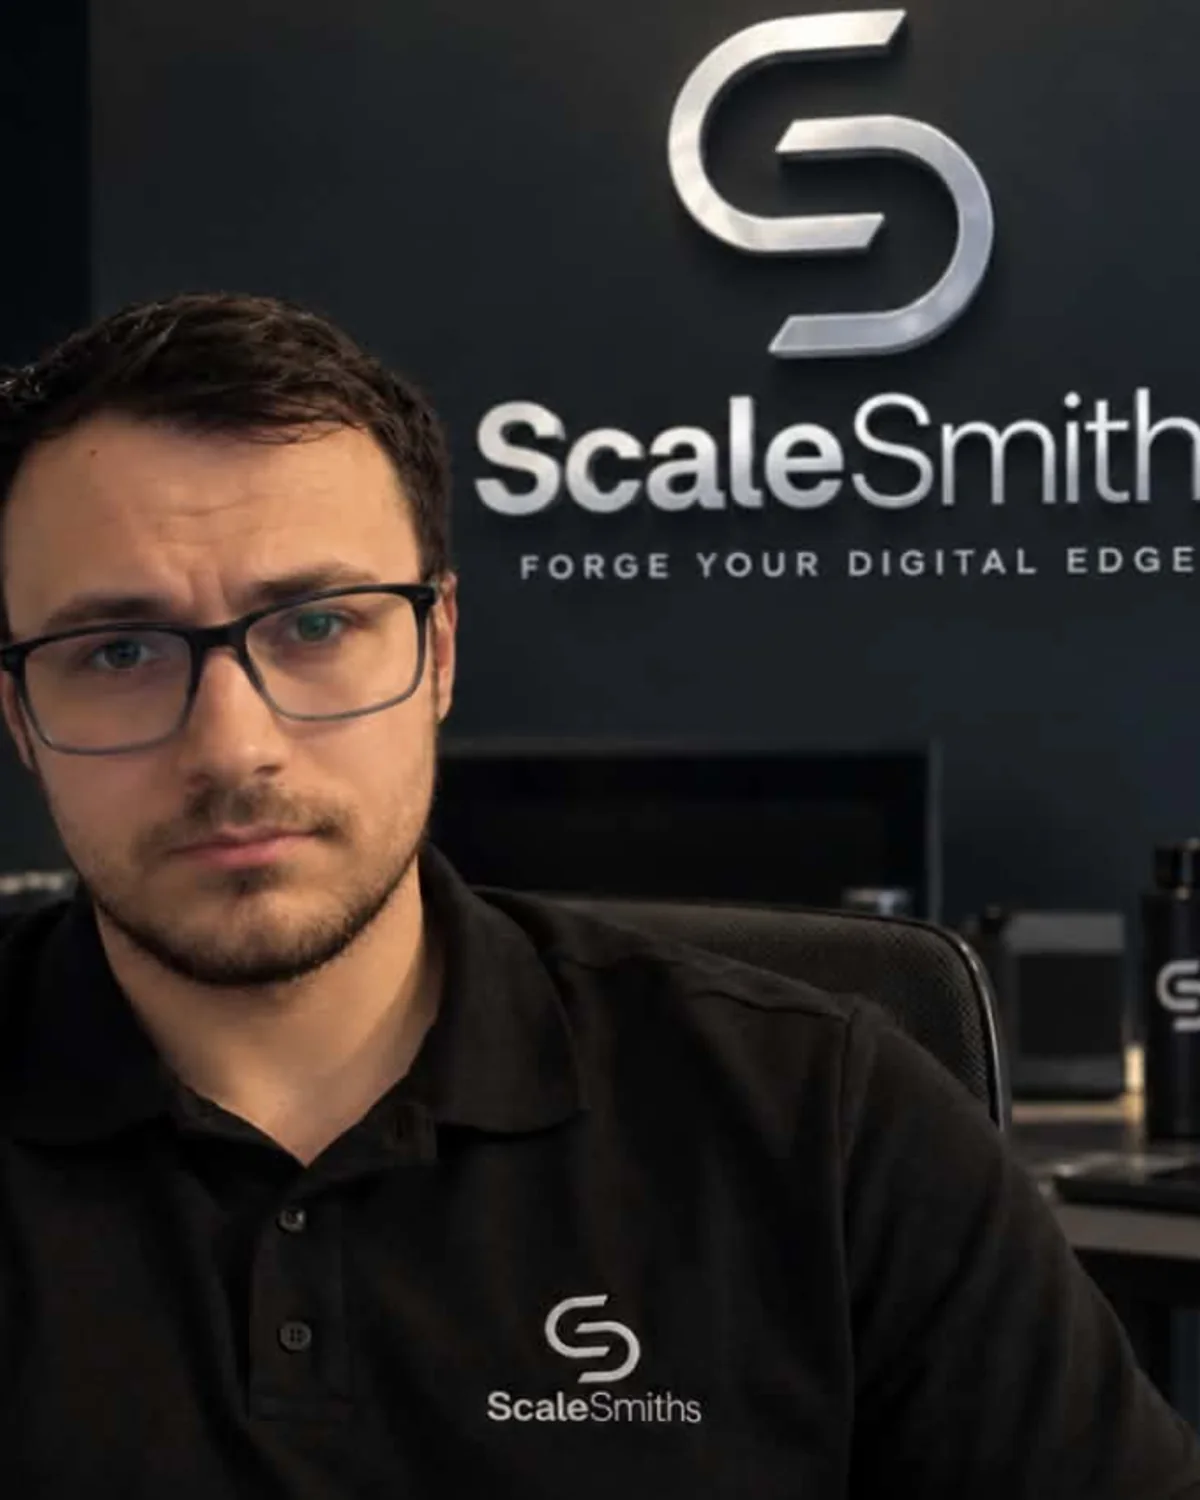
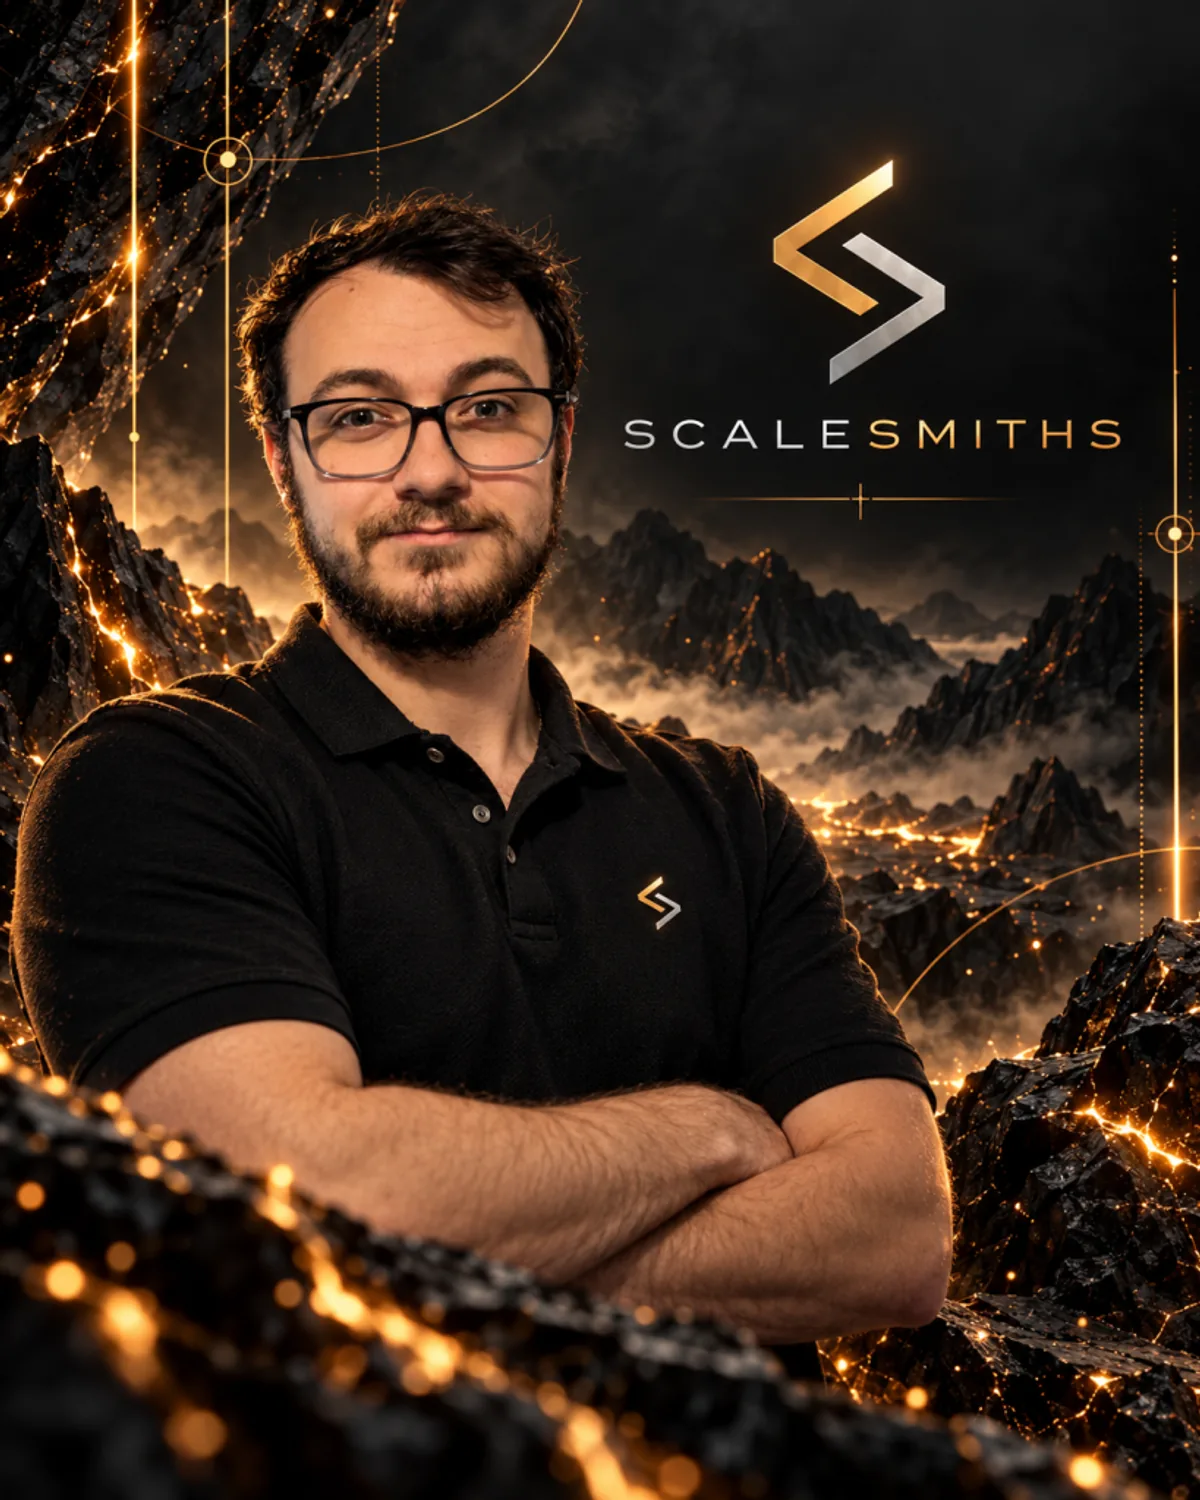
feat(web): replace Rhys portraits with branded forge and office shots
Swap the primary Rhys team photo for the forge-mountain mural portrait and
add the studio/office shot for about and homepage founder cards.

diff --git a/web/tests/e2e/about-founders.spec.ts b/web/tests/e2e/about-founders.spec.ts
@@ -61,7 +61,7 @@ test.describe("about and founders page", () => {
     const rhysPhoto = page.locator("#rhys img")
     await expect(rhysPhoto).toHaveCount(1)
     await expect(rhysPhoto).toHaveAttribute("alt", /Rhys.*ScaleSmiths/i)
-    await expect(rhysPhoto).toHaveAttribute("src", /(?:\/|%2F)images(?:\/|%2F)team(?:\/|%2F)rhys/)
+    await expect(rhysPhoto).toHaveAttribute("src", /(?:\/|%2F)images(?:\/|%2F)team(?:\/|%2F)rhys-office/)
 
     const trevorPhoto = page.locator("#trevor-newton-bradley img")
     await expect(trevorPhoto).toHaveCount(1)
@@ -75,7 +75,7 @@ test.describe("about and founders page", () => {
     const portrait = page.locator("main img").first()
     await expect(portrait).toBeVisible()
     await expect(portrait).toHaveAttribute("alt", /Rhys.*ScaleSmiths/i)
-    await expect(portrait).toHaveAttribute("src", /(?:\/|%2F)images(?:\/|%2F)team(?:\/|%2F)rhys/)
+    await expect(portrait).toHaveAttribute("src", /(?:\/|%2F)images(?:\/|%2F)team(?:\/|%2F)rhys(?:\.webp|%2Ewebp)/)
   })
 
   test("shows Trevor's portrait on his founder profile", async ({ page }) => {

diff --git a/web/src/lib/founders.ts b/web/src/lib/founders.ts
@@ -35,7 +35,10 @@ export interface Founder {
   /** Name as it already appears in project credits. */
   creditName: string
   monogram: string
+  /** Primary portrait (profile hero, Person schema, insight bylines). */
   photo: TeamImageKey
+  /** Optional secondary portrait for about/home cards (workspace/trust contexts). */
+  cardPhoto?: TeamImageKey
   role: EvidencedStatement
   /** Short title used in article bylines and Person structured data. */
   authorTitle: string
@@ -70,6 +73,7 @@ export const founders: Founder[] = [
     creditName: "Rhys",
     monogram: "R",
     photo: "rhys",
+    cardPhoto: "rhysOffice",
     // Owner-supplied title (founder profile card, 15 September 2026).
     authorTitle: "Co-founder & Technical Lead",
     accent: "#e8a045",

diff --git a/web/src/lib/team-images.ts b/web/src/lib/team-images.ts
@@ -18,9 +18,17 @@ export interface TeamImage {
 }
 
 export const teamImages = {
+  /** Forge-mountain brand mural portrait — primary profile / Person schema image. */
   rhys: {
     src: "/images/team/rhys.webp",
-    alt: "Rhys, co-founder and technical lead of ScaleSmiths, in a ScaleSmiths polo",
+    alt: "Rhys, co-founder of ScaleSmiths, in a branded polo against the forge-mountain mural",
+    aspect: "4 / 5",
+    available: true,
+  },
+  /** Studio/office portrait — card and homepage trust contexts. */
+  rhysOffice: {
+    src: "/images/team/rhys-office.webp",
+    alt: "Rhys, co-founder of ScaleSmiths, standing in the branded office by the wall logo",
     aspect: "4 / 5",
     available: true,
   },

diff --git a/web/src/components/FoundersSection.tsx b/web/src/components/FoundersSection.tsx
@@ -39,7 +39,7 @@ export function FoundersSection() {
                 {founders.map((founder, index) => (
                   <FounderPortrait
                     key={founder.slug}
-                    image={founder.photo}
+                    image={founder.cardPhoto ?? founder.photo}
                     monogram={founder.monogram}
                     accent={founder.accent}
                     sizes="(min-width: 1024px) 310px, 50vw"

diff --git a/web/src/components/FounderCard.tsx b/web/src/components/FounderCard.tsx
@@ -23,7 +23,7 @@ export function FounderCard({ founder }: { founder: Founder }) {
     >
       <div className="grid gap-6 sm:grid-cols-[180px_1fr] sm:items-end">
         <FounderPortrait
-          image={founder.photo}
+          image={founder.cardPhoto ?? founder.photo}
           monogram={founder.monogram}
           accent={founder.accent}
           sizes="(min-width: 640px) 180px, 100vw"

diff --git a/docs/content/founder-profiles.md b/docs/content/founder-profiles.md
@@ -45,7 +45,8 @@ All imagery must be real. No stock, AI-generated or mocked photography or screen
 
 | File | Content | Size |
 | --- | --- | --- |
-| `rhys.webp` | Natural portrait of Rhys | ~1200×1500 (4:5), < 250KB |
+| `rhys.webp` | Forge-mountain brand mural portrait of Rhys (primary / profile) | ~1200×1500 (4:5), < 250KB |
+| `rhys-office.webp` | Studio/office portrait of Rhys (about + home cards) | ~1200×1500 (4:5), < 250KB |
 | `trevor.webp` | Natural portrait of Trevor Newton-Bradley | ~1200×1500 (4:5), < 250KB |
 | `rhys-trevor.webp` | Both founders together | ~1600×1067 (3:2), < 300KB |
 
